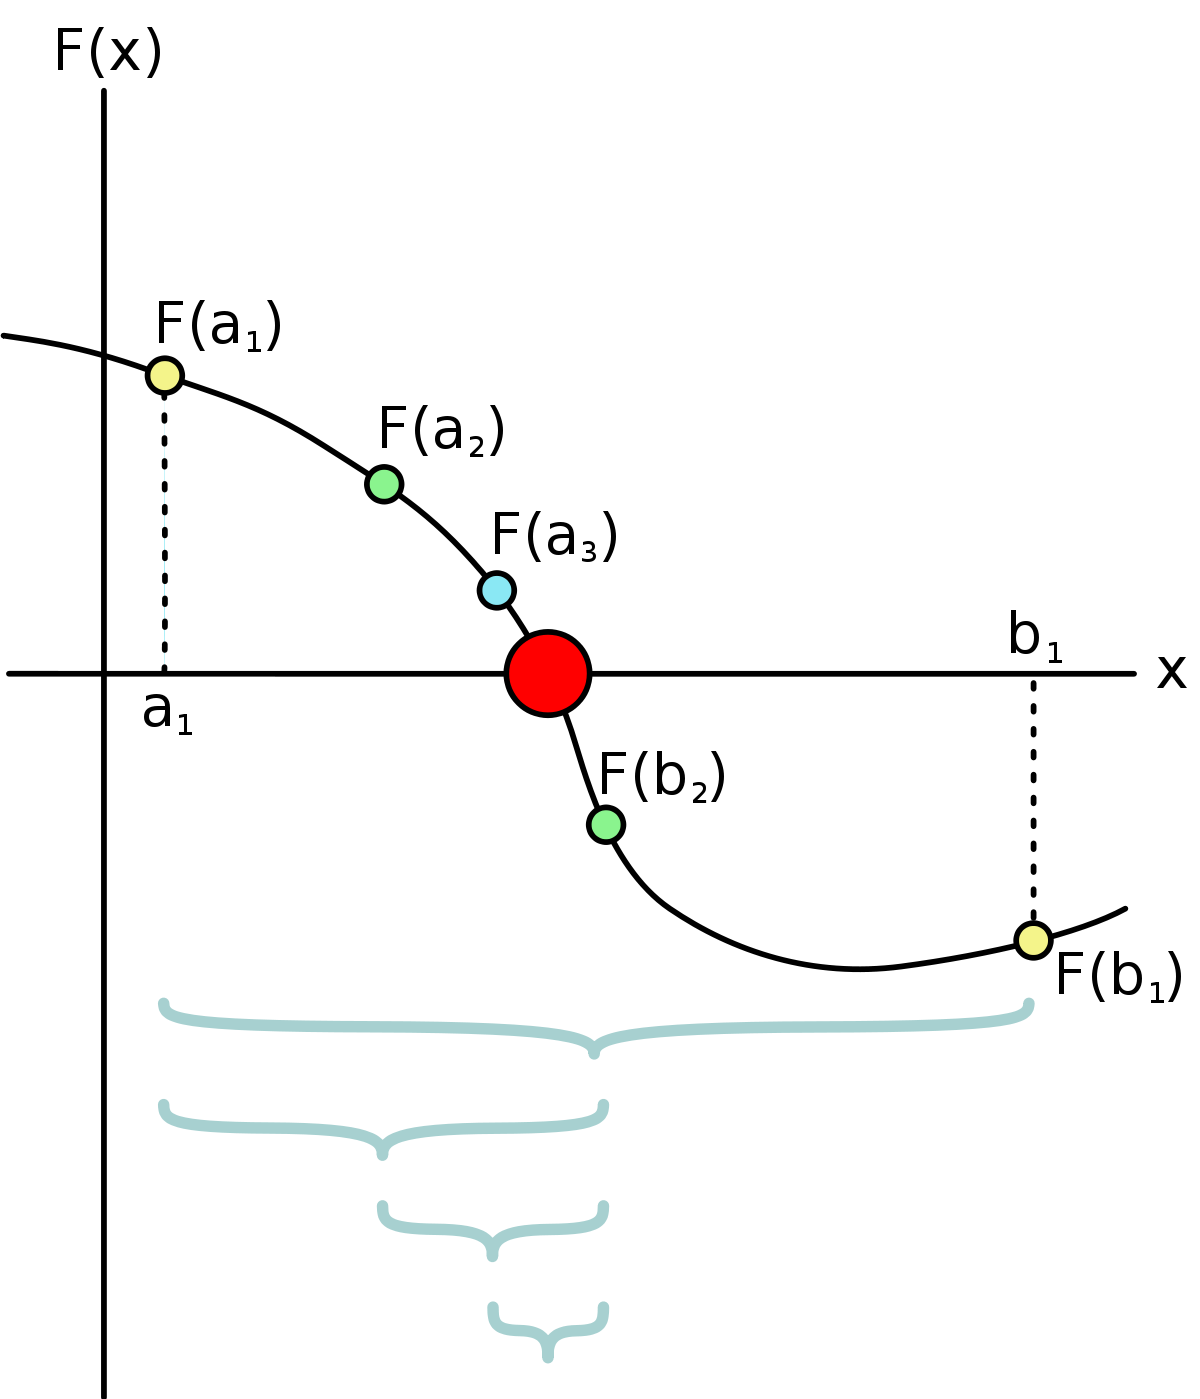
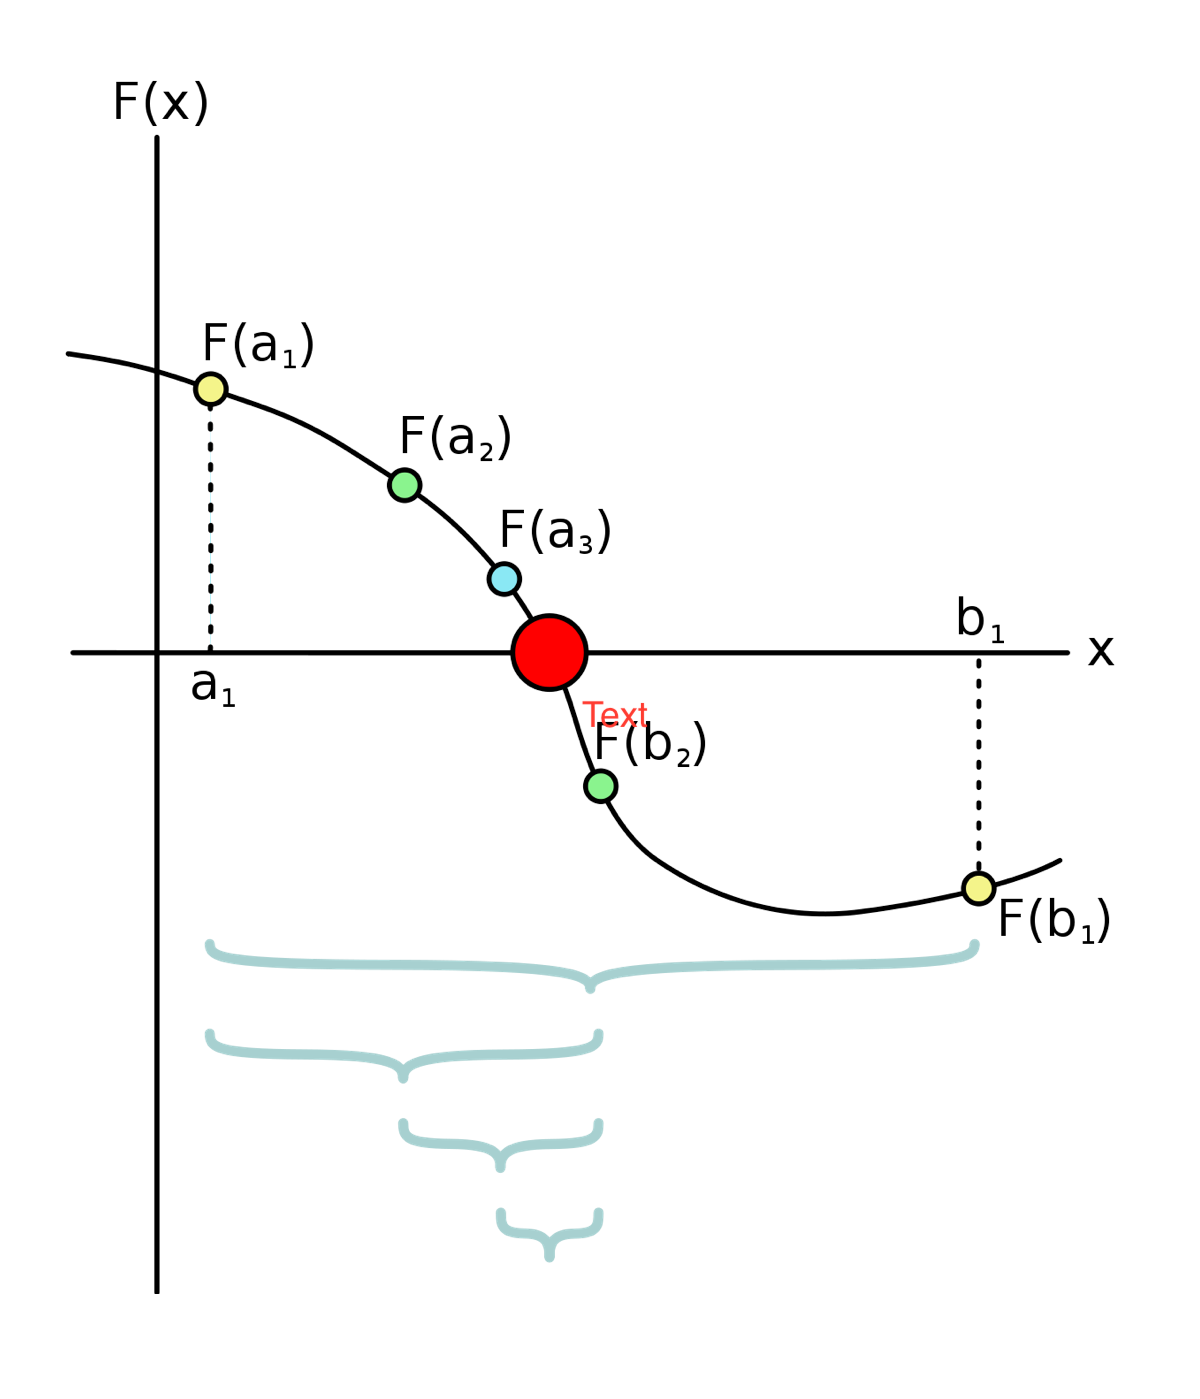
change file

Changed region(s): [[0.0, 0.0307, 0.9867, 1.0], [0.3083, 0.8606, 0.5242, 0.9836], [0.0, 0.2152, 0.0308, 0.2459]]

diff --git a/Numerical Method/Numerical Method - Lecture 2 - Root of Non-linear equations.md b/Numerical Method/Numerical Method - Lecture 2 - Root of Non-linear equations.md
@@ -15,7 +15,13 @@
 
 #### Bisection
 
+![img](https://raw.githubusercontent.com/nghminh163/USTH-B2/main/Numerical%20Method/assets/non-linear-bisection-1.png?token=AFZLYSZIXNLDBI6MYYNTF7DBGOH5K)
+
 - The bisection method is a **root-finding method** that repeatedly bisects an **interval** and then selects a subinterval in which a root must lie for further processing
   - Very simple
   - Robust
   - Relatively slow
+
+**Principle**
+
+![](https://raw.githubusercontent.com/nghminh163/USTH-B2/main/Numerical%20Method/assets/non-linear-bisection-2.png?token=AFZLYS2N7HSBHVHBPY5VUADBGOH7O
